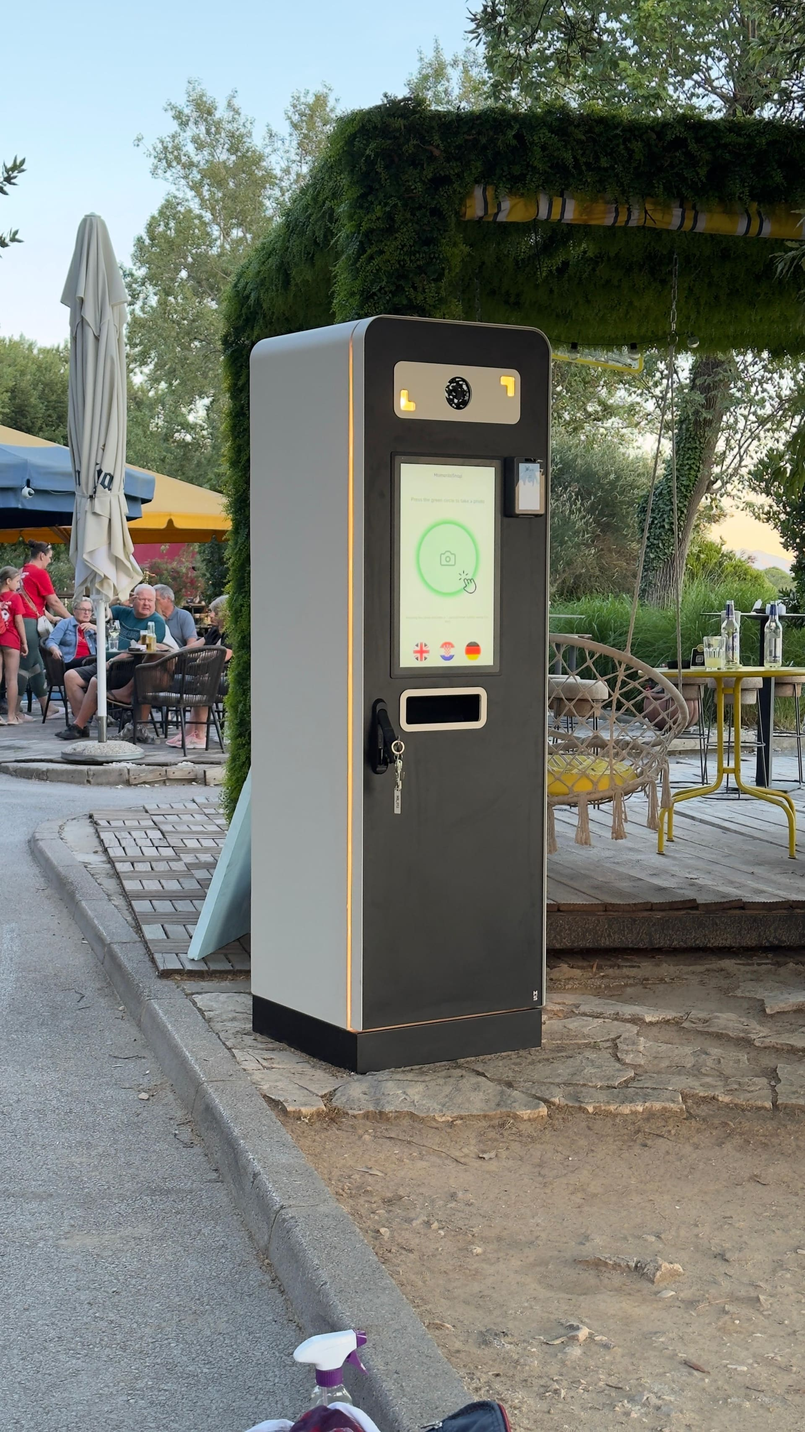
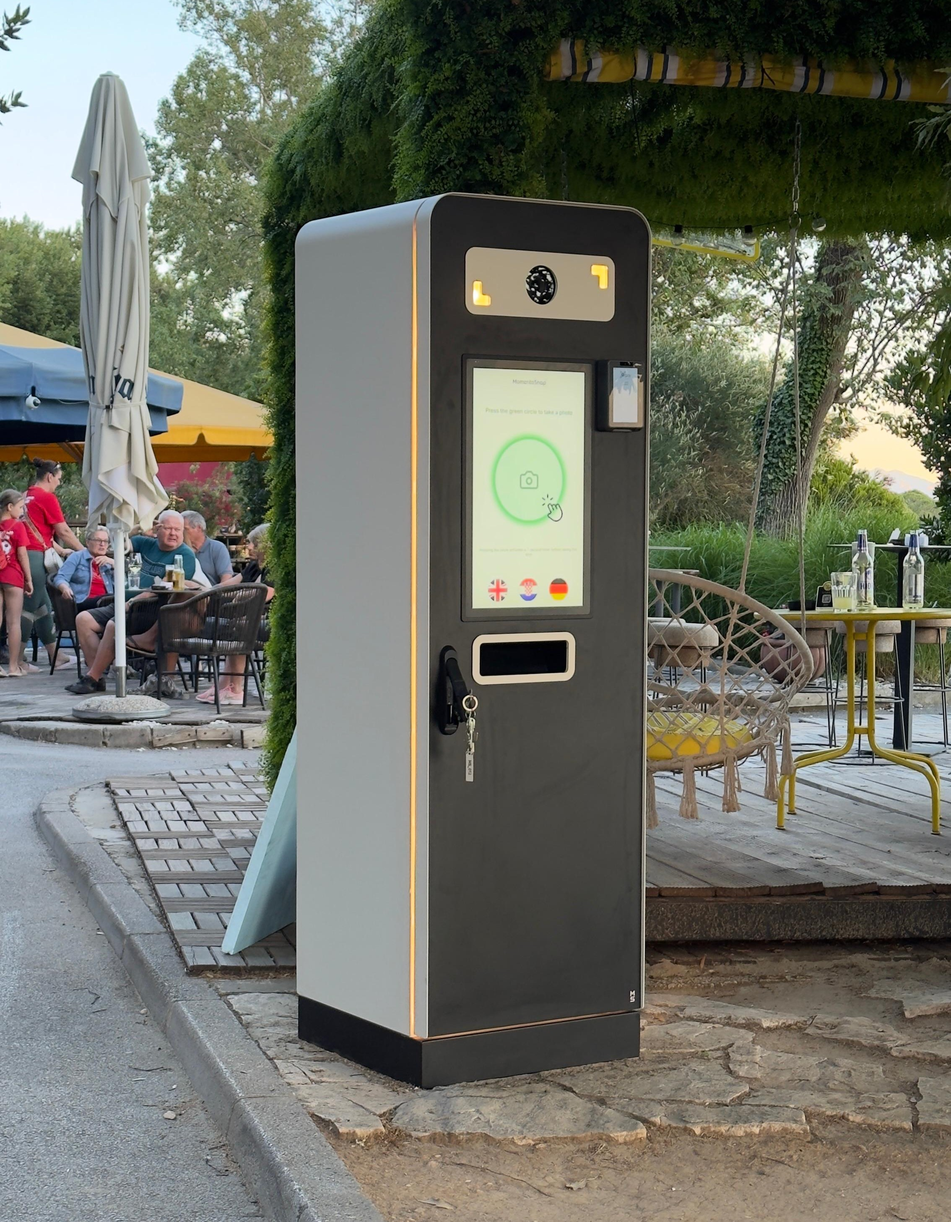
update

diff --git a/app/de/elektroschraenke/page.tsx b/app/de/elektroschraenke/page.tsx
@@ -103,26 +103,19 @@ export default function SchraenkePage() {
             />
           </div>
 
-          <div className="mt-16">
-            <h4 className="text-xl font-bold text-white mb-2">Derselbe Schrank, zwei Standorte</h4>
-            <p className="text-slate-400 text-sm mb-6 max-w-2xl">
-              Unser Metallgehäuse übersteht jede Witterung - von einer Terrasse am Meer bis zu
-              einem Berggipfel.
-            </p>
-            <div className="grid grid-cols-1 md:grid-cols-2 gap-6">
-              {/* eslint-disable-next-line @next/next/no-img-element */}
-              <img
-                src="/slike/aparat1.jpeg"
-                alt="Metallgehäuse eines Fotokiosk-Geräts auf einer Terrasse"
-                className="w-full h-[420px] object-cover rounded-xl border border-slate-800 grayscale opacity-70 hover:grayscale-0 hover:opacity-100 transition-all duration-500"
-              />
-              {/* eslint-disable-next-line @next/next/no-img-element */}
-              <img
-                src="/slike/aparat2.jpeg"
-                alt="Metallgehäuse eines Fotokiosk-Geräts an einem Aussichtspunkt"
-                className="w-full h-[420px] object-cover rounded-xl border border-slate-800 grayscale opacity-70 hover:grayscale-0 hover:opacity-100 transition-all duration-500"
-              />
-            </div>
+          <div className="grid grid-cols-1 md:grid-cols-2 gap-6 mt-6">
+            {/* eslint-disable-next-line @next/next/no-img-element */}
+            <img
+              src="/slike/aparat1.jpeg"
+              alt="Metallgehäuse eines Fotokiosk-Geräts auf einer Terrasse"
+              className="w-full h-auto rounded-xl border border-slate-800 grayscale opacity-70 hover:grayscale-0 hover:opacity-100 transition-all duration-500"
+            />
+            {/* eslint-disable-next-line @next/next/no-img-element */}
+            <img
+              src="/slike/aparat2.jpeg"
+              alt="Metallgehäuse eines Fotokiosk-Geräts an einem Aussichtspunkt"
+              className="w-full h-auto rounded-xl border border-slate-800 grayscale opacity-70 hover:grayscale-0 hover:opacity-100 transition-all duration-500"
+            />
           </div>
         </div>
 

diff --git a/app/en/cabinets/page.tsx b/app/en/cabinets/page.tsx
@@ -103,26 +103,19 @@ export default function CabinetsPage() {
             />
           </div>
 
-          <div className="mt-16">
-            <h4 className="text-xl font-bold text-white mb-2">Same cabinet, two locations</h4>
-            <p className="text-slate-400 text-sm mb-6 max-w-2xl">
-              Our metal enclosure withstands any weather - from a seaside terrace to a mountain
-              summit.
-            </p>
-            <div className="grid grid-cols-1 md:grid-cols-2 gap-6">
-              {/* eslint-disable-next-line @next/next/no-img-element */}
-              <img
-                src="/slike/aparat1.jpeg"
-                alt="Metal enclosure of a photo kiosk unit on a terrace"
-                className="w-full h-[420px] object-cover rounded-xl border border-slate-800 grayscale opacity-70 hover:grayscale-0 hover:opacity-100 transition-all duration-500"
-              />
-              {/* eslint-disable-next-line @next/next/no-img-element */}
-              <img
-                src="/slike/aparat2.jpeg"
-                alt="Metal enclosure of a photo kiosk unit at a viewpoint"
-                className="w-full h-[420px] object-cover rounded-xl border border-slate-800 grayscale opacity-70 hover:grayscale-0 hover:opacity-100 transition-all duration-500"
-              />
-            </div>
+          <div className="grid grid-cols-1 md:grid-cols-2 gap-6 mt-6">
+            {/* eslint-disable-next-line @next/next/no-img-element */}
+            <img
+              src="/slike/aparat1.jpeg"
+              alt="Metal enclosure of a photo kiosk unit on a terrace"
+              className="w-full h-auto rounded-xl border border-slate-800 grayscale opacity-70 hover:grayscale-0 hover:opacity-100 transition-all duration-500"
+            />
+            {/* eslint-disable-next-line @next/next/no-img-element */}
+            <img
+              src="/slike/aparat2.jpeg"
+              alt="Metal enclosure of a photo kiosk unit at a viewpoint"
+              className="w-full h-auto rounded-xl border border-slate-800 grayscale opacity-70 hover:grayscale-0 hover:opacity-100 transition-all duration-500"
+            />
           </div>
         </div>
 

diff --git a/app/(hr)/ormari/page.tsx b/app/(hr)/ormari/page.tsx
@@ -103,26 +103,19 @@ export default function OrmariPage() {
             />
           </div>
 
-          <div className="mt-16">
-            <h4 className="text-xl font-bold text-white mb-2">Isti ormar, dvije lokacije</h4>
-            <p className="text-slate-400 text-sm mb-6 max-w-2xl">
-              Naše metalno kućište otporno je na sve vremenske uvjete — od terase uz more do
-              vrha planine.
-            </p>
-            <div className="grid grid-cols-1 md:grid-cols-2 gap-6">
-              {/* eslint-disable-next-line @next/next/no-img-element */}
-              <img
-                src="/slike/aparat1.jpeg"
-                alt="Metalno kućište fotokiosk uređaja na terasi"
-                className="w-full h-[420px] object-cover rounded-xl border border-slate-800 grayscale opacity-70 hover:grayscale-0 hover:opacity-100 transition-all duration-500"
-              />
-              {/* eslint-disable-next-line @next/next/no-img-element */}
-              <img
-                src="/slike/aparat2.jpeg"
-                alt="Metalno kućište fotokiosk uređaja na vidikovcu"
-                className="w-full h-[420px] object-cover rounded-xl border border-slate-800 grayscale opacity-70 hover:grayscale-0 hover:opacity-100 transition-all duration-500"
-              />
-            </div>
+          <div className="grid grid-cols-1 md:grid-cols-2 gap-6 mt-6">
+            {/* eslint-disable-next-line @next/next/no-img-element */}
+            <img
+              src="/slike/aparat1.jpeg"
+              alt="Metalno kućište fotokiosk uređaja na terasi"
+              className="w-full h-auto rounded-xl border border-slate-800 grayscale opacity-70 hover:grayscale-0 hover:opacity-100 transition-all duration-500"
+            />
+            {/* eslint-disable-next-line @next/next/no-img-element */}
+            <img
+              src="/slike/aparat2.jpeg"
+              alt="Metalno kućište fotokiosk uređaja na vidikovcu"
+              className="w-full h-auto rounded-xl border border-slate-800 grayscale opacity-70 hover:grayscale-0 hover:opacity-100 transition-all duration-500"
+            />
           </div>
         </div>
 
